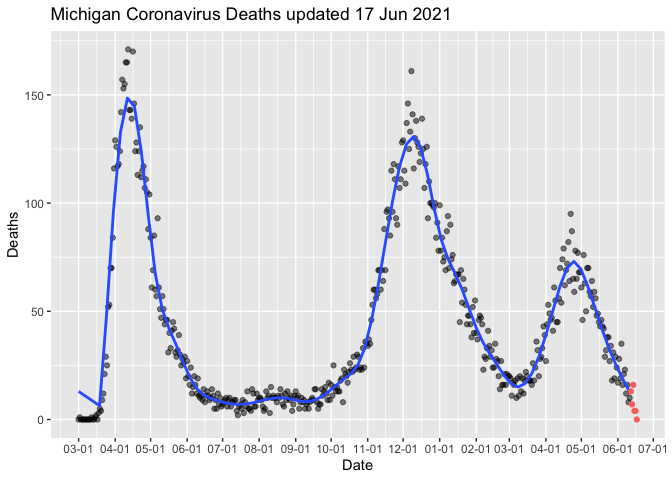
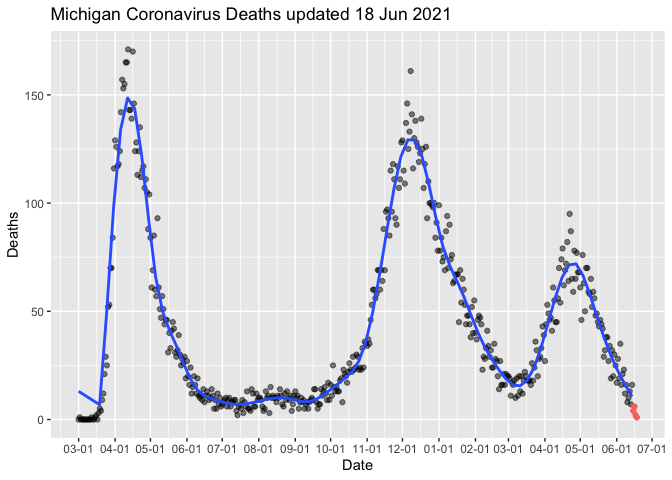
Jun-21 2021 09:24 update

diff --git a/MiCorona.md b/MiCorona.md
@@ -1,7 +1,7 @@
 Michigan COVID Data
 ================
 Adam D. DenHaan
-Jun 18, 2021
+Jun 21, 2021
 
 Get link for data:
 
@@ -48,11 +48,11 @@ mi_data.head()
     ## 4  Alcona 2020-03-05   Confirmed    0.0     0.0               0.0   
     ## 
     ##    Deaths.Cumulative                       Updated  
-    ## 0                0.0 2021-06-17 14:30:03.519900160  
-    ## 1                0.0 2021-06-17 14:30:03.519900160  
-    ## 2                0.0 2021-06-17 14:30:03.519900160  
-    ## 3                0.0 2021-06-17 14:30:03.519900160  
-    ## 4                0.0 2021-06-17 14:30:03.519900160
+    ## 0                0.0 2021-06-18 15:06:44.676100096  
+    ## 1                0.0 2021-06-18 15:06:44.676100096  
+    ## 2                0.0 2021-06-18 15:06:44.676100096  
+    ## 3                0.0 2021-06-18 15:06:44.676100096  
+    ## 4                0.0 2021-06-18 15:06:44.676100096
 
 ``` python
 max_date = max(mi_data["Updated"])
@@ -129,7 +129,7 @@ viz_function(mi_cases_by_day_exclusive, mi_cases_by_day_last4, Date, Deaths, ver
 
 ![](MiCorona_files/figure-gfm/viz2-1.png)<!-- -->
 
-Note that the last 6 days of data have been colored red on the graph, as
+Note that the last 4 days of data have been colored red on the graph, as
 they frequently change as more information becomes available. Vertical
 orange line at 4 weeks in the past (as hospitalizations and deaths
 usually follow cases by three weeks, and the deaths graph regression
